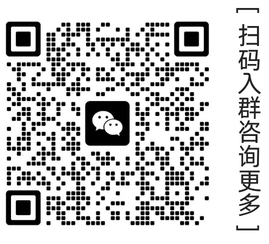
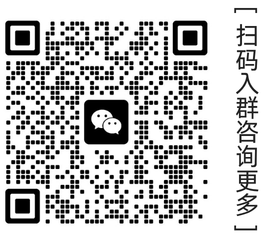
Update recruitment group contact and QR code

diff --git a/app/page.tsx b/app/page.tsx
@@ -67,7 +67,7 @@ const mediaItems: MediaItem[] = [
 ];
 const recruitmentLinks: RecruitmentLink[] = [
   { id: 'form', title: '填写报名问卷', note: '提交你的方向偏好与联系方式', image: '/media/qr-form.png' },
-  { id: 'group', title: '加入咨询群', note: '和学长学姐面对面聊聊', image: '/media/qr-group.png' },
+  { id: 'group', title: '加入咨询群', note: 'QQ群：1107926349 · 微信扫码进群咨询', image: '/media/qr-group.png' },
 ];
 const practiceGroups: PracticeGroup[] = [
   { id: 'algorithm', code: 'GROUP 01', title: '算法组', english: 'ALGORITHM', responsibility: '视觉识别 · 数据处理 · 嵌入式 AI', intro: '让设备看懂画面、理解数据，并把模型真正部署到项目现场。', starterTasks: ['学习 Python、OpenCV 与基础数据处理', '参与数据整理、标注、训练和模型评估', '把算法部署到边缘设备并参与现场调试'], gains: ['编程与算法验证能力', '从数据到部署的 AI 工程链路', '跨组沟通与问题拆解能力'], future: '为人工智能、计算机视觉、数据分析和嵌入式 AI 方向建立项目基础。', projectIds: ['edge-ai', 'balance-car', 'medicine-car', 'cervical-care', 'waist-posture'], icon: 'algorithm' },
